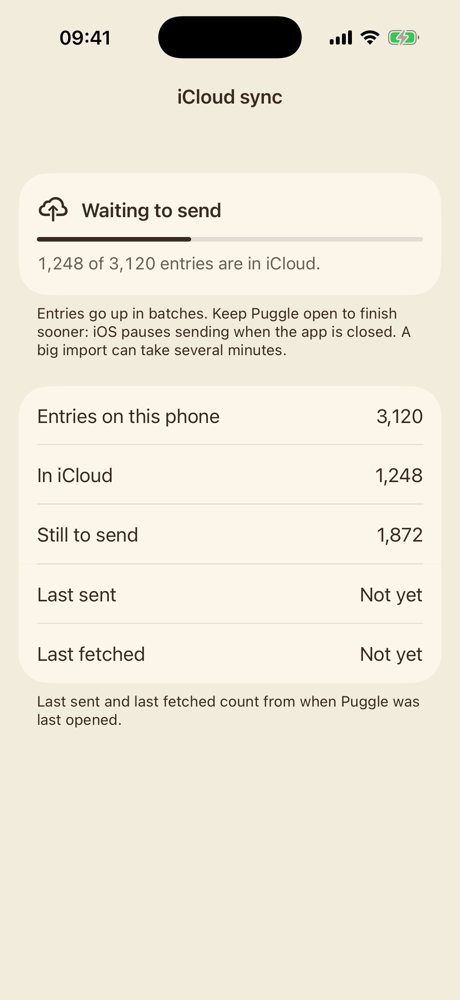
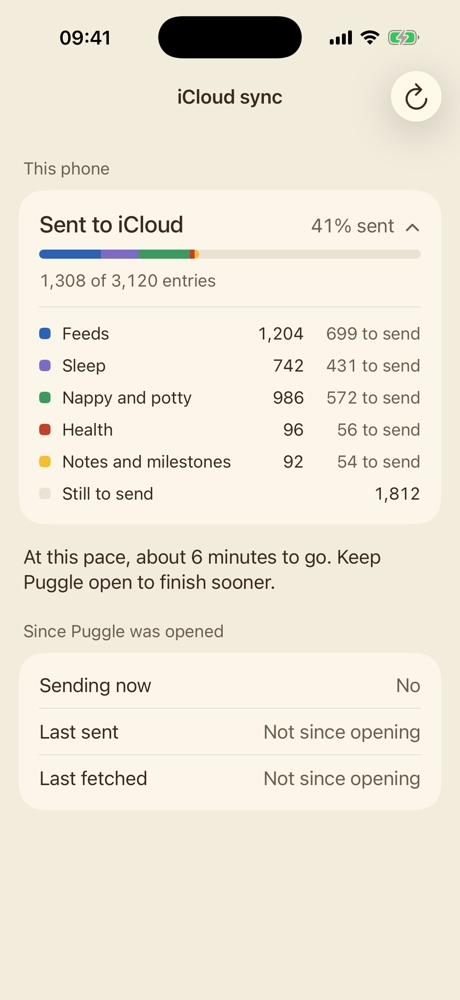
The sync screen: a breakdown by kind, the pace, and a button to count again

diff --git a/app/Puggle/Features/Family/SyncView.swift b/app/Puggle/Features/Family/SyncView.swift
@@ -3,28 +3,79 @@ import SwiftUI
 
 /// How much of this phone's family is in iCloud, for Settings (Tom, 15 November 2026: a big import can take a
 /// while to send, and nothing said so). It counts the entries on this phone and how many of them iCloud has a
-/// record of, and says when the last send and fetch were. It reads only; nothing here changes the data.
+/// record of, by kind, and says when the last send and fetch were. It reads only; nothing here changes the data.
 struct SyncProgress: Equatable {
-    var total = 0
-    var sent = 0
+    /// One line of the breakdown: a kind of entry, how many are on this phone and how many are in iCloud.
+    struct Part: Equatable, Identifiable {
+        let group: Group
+        var total = 0
+        var sent = 0
+        var id: Group { group }
+        var waiting: Int { max(0, total - sent) }
+    }
 
+    enum Group: String, CaseIterable {
+        case feeds = "Feeds", sleep = "Sleep", changes = "Nappies and potty", health = "Health", other = "Notes and milestones"
+
+        init(_ kind: EventKind) {
+            switch kind {
+            case .bottle, .breastfeed, .solids, .pump: self = .feeds
+            case .sleep: self = .sleep
+            case .nappy, .potty: self = .changes
+            case .medicine, .temperature, .vaccination, .weight: self = .health
+            case .note, .milestone: self = .other
+            }
+        }
+
+        var title: String { self == .changes ? "\(Terms.nappy) and potty" : rawValue }
+
+        var colour: Color {
+            switch self {
+            case .feeds: Palette.harbour
+            case .sleep: Color(hex: 0x7B6BC4)
+            case .changes: Palette.gum
+            case .health: Palette.waratahFill
+            case .other: Palette.wattle
+            }
+        }
+    }
+
+    var parts: [Part] = []
+
+    var total: Int { parts.reduce(0) { $0 + $1.total } }
+    var sent: Int { parts.reduce(0) { $0 + $1.sent } }
     var waiting: Int { max(0, total - sent) }
     var fraction: Double { total == 0 ? 1 : Double(sent) / Double(total) }
+    /// Rounded down, so it only says 100% when nothing is waiting.
+    var percent: Int { waiting == 0 ? 100 : min(99, Int(fraction * 100)) }
 
     @MainActor
     static func count(in store: FamilyStore) -> SyncProgress {
         #if DEBUG
-        // For looking at the screen part-way through: "-debugSync 0.4" shows two fifths sent.
+        // For looking at the screen part-way through: "-debugSync 0.4" starts two fifths sent and climbs,
+        // "-debugSync 1" is up to date.
         if let part = UserDefaults.standard.string(forKey: "debugSync").flatMap(Double.init) {
-            return SyncProgress(total: 3120, sent: Int(3120 * part))
+            let climbed = part >= 1 ? 1 : min(1, part + Date.now.timeIntervalSince(debugStart) / 600)
+            let totals: [(Group, Int)] = [(.feeds, 1204), (.sleep, 742), (.changes, 986), (.health, 96), (.other, 92)]
+            return SyncProgress(parts: totals.map { Part(group: $0.0, total: $0.1, sent: Int(Double($0.1) * climbed)) })
         }
         #endif
         guard Persistence.cloudSyncEnabled, !store.isSample, let family = store.existingFamily() else { return SyncProgress() }
-        let ids = (family.events ?? []).filter { !$0.isDeleted }.map(\.objectID)
+        let events = (family.events ?? []).filter { !$0.isDeleted }
         // One question for all of them: which of these does iCloud have a record of.
-        let sent = store.persistence.container.recordIDs(for: ids).count
-        return SyncProgress(total: ids.count, sent: sent)
+        let inCloud = store.persistence.container.recordIDs(for: events.map(\.objectID))
+        var parts = Dictionary(uniqueKeysWithValues: Group.allCases.map { ($0, Part(group: $0)) })
+        for event in events {
+            let group = Group(event.kind)
+            parts[group]?.total += 1
+            if inCloud[event.objectID] != nil { parts[group]?.sent += 1 }
+        }
+        return SyncProgress(parts: Group.allCases.compactMap { parts[$0] }.filter { $0.total > 0 })
     }
+
+    #if DEBUG
+    private static let debugStart = Date.now
+    #endif
 }
 
 /// The row in Settings: "iCloud sync", with where it stands beside it.
@@ -48,6 +99,10 @@ struct SyncView: View {
     @ObservedObject private var cloud = CloudStatus.shared
     @ObservedObject private var watch = SyncWatch.shared
     @State private var progress = SyncProgress()
+    @State private var open = true
+    /// Where the count stood when the screen opened, and when it last moved, to work out the pace.
+    @State private var first: (at: Date, sent: Int)?
+    @State private var moved = Date.now
 
     /// The few words beside the row in Settings.
     static func short(_ progress: SyncProgress, cloud: CloudStatus, sample: Bool) -> String {
@@ -66,84 +121,213 @@ struct SyncView: View {
     }
 
     var body: some View {
-        List {
-            if let off {
-                Section { Text(off).foregroundStyle(Palette.muted) }
-                    .listRowBackground(Palette.paper)
-            } else {
-                Section {
-                    VStack(alignment: .leading, spacing: 10) {
-                        HStack(spacing: 10) {
-                            Image(systemName: headlineSymbol)
-                                .font(.title3.weight(.semibold))
-                                .foregroundStyle(Palette.ink)
-                                .accessibilityHidden(true)
-                            Text(headline).font(.headline).foregroundStyle(Palette.ink)
-                        }
-                        if progress.waiting > 0 {
-                            ProgressView(value: progress.fraction)
-                                .tint(Palette.ink)
-                                .accessibilityLabel("Sent to iCloud")
-                                .accessibilityValue("\(progress.sent.formatted()) of \(progress.total.formatted()) entries")
-                            Text("\(progress.sent.formatted()) of \(progress.total.formatted()) entries are in iCloud.")
-                                .font(.subheadline)
-                                .foregroundStyle(Palette.muted)
-                                .monospacedDigit()
-                        }
-                    }
-                    .padding(.vertical, 4)
-                } footer: {
-                    Text(footer)
+        ScrollView {
+            VStack(alignment: .leading, spacing: 10) {
+                if let off {
+                    card { Text(off).foregroundStyle(Palette.muted) }
+                } else {
+                    heading("This phone")
+                    card { sending }
+                    Text(note)
+                        .font(.body)
+                        .foregroundStyle(Palette.ink)
+                        .fixedSize(horizontal: false, vertical: true)
+                        .padding(.horizontal, 4)
+                        .padding(.vertical, 8)
+                    heading("Since Puggle was opened")
+                    card { activity }
                 }
-                .listRowBackground(Palette.paper)
-
-                Section {
-                    LabeledContent("Entries on this phone", value: progress.total.formatted())
-                    LabeledContent("In iCloud", value: progress.sent.formatted())
-                    LabeledContent("Still to send", value: progress.waiting.formatted())
-                    LabeledContent("Last sent", value: when(watch.lastSend))
-                    LabeledContent("Last fetched", value: when(watch.lastFetch))
-                } footer: {
-                    Text("Last sent and last fetched start again each time Puggle is opened.")
-                }
-                .listRowBackground(Palette.paper)
             }
+            .padding(16)
         }
-        .scrollContentBackground(.hidden)
         .background(Palette.sand)
         .navigationTitle("iCloud sync")
         .navigationBarTitleDisplayMode(.inline)
+        .toolbar {
+            ToolbarItem(placement: .topBarTrailing) {
+                Button { refresh() } label: { Image(systemName: "arrow.clockwise") }
+                    .accessibilityLabel("Count again")
+            }
+        }
         .task {
             // Counted again every few seconds while the screen is open, so the bar moves as batches go up.
             while !Task.isCancelled {
-                progress = SyncProgress.count(in: store)
+                refresh()
                 try? await Task.sleep(for: .seconds(3))
             }
         }
     }
 
+    private func refresh() {
+        let now = SyncProgress.count(in: store)
+        if first == nil { first = (.now, now.sent) }
+        if now.sent != progress.sent { moved = .now }
+        progress = now
+    }
+
+    // MARK: - The card for what has been sent
+
+    @ViewBuilder private var sending: some View {
+        Button {
+            withAnimation(.spring(duration: 0.3, bounce: 0)) { open.toggle() }
+        } label: {
+            HStack(alignment: .firstTextBaseline) {
+                Text("Sent to iCloud").font(.title3.weight(.medium)).foregroundStyle(Palette.ink)
+                Spacer(minLength: 8)
+                Text(progress.waiting == 0 ? "Up to date" : "\(progress.percent)% sent")
+                    .foregroundStyle(Palette.muted)
+                    .monospacedDigit()
+                Image(systemName: "chevron.down")
+                    .font(.footnote.weight(.semibold))
+                    .foregroundStyle(Palette.muted)
+                    .rotationEffect(.degrees(open ? 180 : 0))
+            }
+            .contentShape(Rectangle())
+        }
+        .buttonStyle(.plain)
+        .accessibilityHint(open ? "Hides the breakdown" : "Shows the breakdown")
+
+        SyncBar(progress: progress, split: open)
+            .frame(height: 8)
+            .accessibilityElement()
+            .accessibilityLabel("Sent to iCloud")
+            .accessibilityValue("\(progress.sent.formatted()) of \(progress.total.formatted()) entries")
+
+        Text("\(progress.sent.formatted()) of \(progress.total.formatted()) entries")
+            .font(.subheadline)
+            .foregroundStyle(Palette.muted)
+            .monospacedDigit()
+
+        if open, !progress.parts.isEmpty {
+            Divider().padding(.vertical, 4)
+            ForEach(progress.parts) { part in
+                HStack(spacing: 10) {
+                    RoundedRectangle(cornerRadius: 3, style: .continuous)
+                        .fill(part.group.colour)
+                        .frame(width: 10, height: 10)
+                        .accessibilityHidden(true)
+                    Text(part.group.title).foregroundStyle(Palette.ink)
+                    Spacer(minLength: 8)
+                    Text(part.total.formatted()).foregroundStyle(Palette.ink)
+                    Text(part.waiting == 0 ? "sent" : "\(part.waiting.formatted()) to send")
+                        .foregroundStyle(Palette.muted)
+                        .frame(minWidth: 92, alignment: .trailing)
+                }
+                .font(.subheadline)
+                .monospacedDigit()
+                .accessibilityElement(children: .combine)
+            }
+            HStack(spacing: 10) {
+                RoundedRectangle(cornerRadius: 3, style: .continuous)
+                    .fill(Palette.field)
+                    .frame(width: 10, height: 10)
+                    .accessibilityHidden(true)
+                Text("Still to send").foregroundStyle(Palette.ink)
+                Spacer(minLength: 8)
+                Text(progress.waiting.formatted()).foregroundStyle(Palette.ink)
+            }
+            .font(.subheadline)
+            .monospacedDigit()
+            .accessibilityElement(children: .combine)
+        }
+    }
+
+    // MARK: - The plain sentence under the card
+
     private var failed: Bool { progress.waiting > 0 && watch.lastSend?.ok == false }
 
-    private var headline: String {
-        if progress.waiting == 0 { return "Up to date" }
-        if failed { return "The last send did not go through" }
-        return watch.sending ? "Sending to iCloud" : "Waiting to send"
+    /// Entries a minute, from what has gone up while this screen has been open.
+    private var pace: Double? {
+        guard let first else { return nil }
+        let seconds = Date.now.timeIntervalSince(first.at)
+        let gone = progress.sent - first.sent
+        guard seconds >= 9, gone > 0 else { return nil }
+        return Double(gone) / seconds * 60
     }
 
-    private var headlineSymbol: String {
-        if progress.waiting == 0 { return "checkmark.icloud" }
-        return failed ? "exclamationmark.icloud" : "icloud.and.arrow.up"
+    private var note: String {
+        if progress.waiting == 0 {
+            return "Everything on this phone is in iCloud. Family members get it the next time they open Puggle."
+        }
+        if failed {
+            return "The last send did not go through. Puggle tries again by itself. If this stays for a few minutes, close Puggle and open it again."
+        }
+        if let pace {
+            let minutes = max(1, Int((Double(progress.waiting) / pace).rounded(.up)))
+            let left = minutes == 1 ? "about a minute" : minutes < 90 ? "about \(minutes) minutes" : "about \(Int((Double(minutes) / 60).rounded())) hours"
+            return "At this pace, \(left) to go. Keep Puggle open to finish sooner."
+        }
+        if Date.now.timeIntervalSince(moved) > 60 {
+            return "Nothing has gone up in the last minute. Entries go up in batches, and iCloud sometimes makes a big send wait. Puggle keeps trying."
+        }
+        return "Entries go up in batches. Keep Puggle open to finish sooner: iOS slows sending once the app is closed."
     }
 
-    private var footer: String {
-        if progress.waiting == 0 { return "Everything on this phone is in iCloud. Family members get it the next time they open Puggle." }
-        if failed { return "Puggle tries again by itself. If this stays for more than a few minutes, close Puggle and open it again." }
-        return "Entries go up in batches. Keep Puggle open to finish sooner: iOS pauses sending when the app is closed. A big import can take several minutes."
+    // MARK: - The card for when it last sent and fetched
+
+    @ViewBuilder private var activity: some View {
+        line("Sending now", watch.sending ? "Yes" : "No")
+        Divider()
+        line("Last sent", when(watch.lastSend))
+        Divider()
+        line("Last fetched", when(watch.lastFetch))
+    }
+
+    private func line(_ title: String, _ value: String) -> some View {
+        HStack {
+            Text(title).foregroundStyle(Palette.ink)
+            Spacer(minLength: 8)
+            Text(value).foregroundStyle(Palette.muted).monospacedDigit()
+        }
+        .accessibilityElement(children: .combine)
     }
 
     private func when(_ last: SyncWatch.Last?) -> String {
         guard let last else { return "Not since opening" }
         let time = last.ended.formatted(date: .omitted, time: .shortened)
         return last.ok ? time : "Tried at \(time)"
+    }
+
+    // MARK: - Pieces
+
+    private func heading(_ text: String) -> some View {
+        Text(text)
+            .font(.subheadline)
+            .foregroundStyle(Palette.muted)
+            .padding(.horizontal, 4)
+            .padding(.top, 6)
+            .accessibilityAddTraits(.isHeader)
+    }
+
+    private func card(@ViewBuilder _ content: () -> some View) -> some View {
+        VStack(alignment: .leading, spacing: 10) { content() }
+            .padding(18)
+            .frame(maxWidth: .infinity, alignment: .leading)
+            .background(Palette.paper, in: RoundedRectangle(cornerRadius: 22, style: .continuous))
+    }
+}
+
+/// The bar: what is in iCloud, in each kind's colour when the breakdown is open, and the rest left empty.
+private struct SyncBar: View {
+    let progress: SyncProgress
+    let split: Bool
+
+    var body: some View {
+        GeometryReader { box in
+            let total = max(1, progress.total)
+            ZStack(alignment: .leading) {
+                Capsule().fill(Palette.field)
+                HStack(spacing: 0) {
+                    if split {
+                        ForEach(progress.parts) { part in
+                            part.group.colour.frame(width: box.size.width * Double(part.sent) / Double(total))
+                        }
+                    } else {
+                        Palette.harbour.frame(width: box.size.width * progress.fraction)
+                    }
+                }
+                .clipShape(Capsule())
+            }
+        }
     }
 }

diff --git a/docs/baby-tracker-spec.md b/docs/baby-tracker-spec.md
@@ -1376,3 +1376,14 @@ iOS for time while entries are waiting:
 
 Core Data still does the sending; this only keeps the app running. iOS decides when the later task runs, and
 it never runs for an app the person has swiped away. Not yet seen on a phone.
+
+**The sync screen, reworked the same day** after two references from Tom (a usage screen: a card with a
+figure and a bar, a breakdown that opens, a plain sentence about pace, a refresh button). It now has:
+
+- a card, "Sent to iCloud", with "41% sent", a bar and "1,308 of 3,120 entries";
+- a breakdown that opens and closes: Feeds, Sleep, Nappy and potty, Health, Notes and milestones, each with
+  its colour in the bar, its total and how many are still to send;
+- one sentence about pace, from what has gone up while the screen is open: "At this pace, about 6 minutes to
+  go." If nothing has moved for a minute it says so;
+- a second card, "Since Puggle was opened": sending now, last sent, last fetched;
+- a button in the corner to count again.
